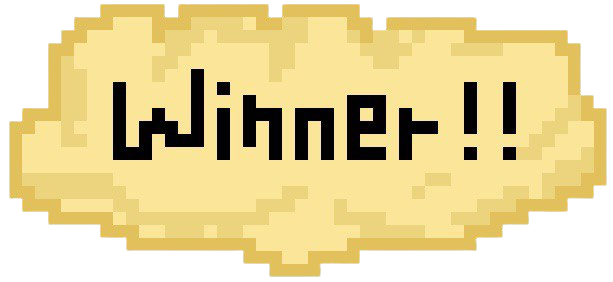
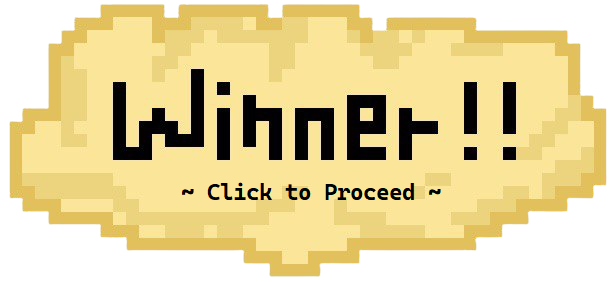
Added EOR State
- Added Win Condition and Change States to EOR
- Added feature for players to restart again

diff --git a/Club Winx's Game!/Src/WinLose.cpp b/Club Winx's Game!/Src/WinLose.cpp
@@ -4,6 +4,7 @@
 
 int Racing_WINNER{ 0 }, Racing_LOSER{ 0 };
 
+
 // ================================================================================================================ //
 // ======================================== FUNCTIONS RELATED FOR RACING ========================================== //
 // ================================================================================================================ //
@@ -98,6 +99,8 @@ int Racing_WINNER{ 0 }, Racing_LOSER{ 0 };
 
 void Racing_Win(bool win, int player)
 {
+	auto start_time = std::chrono::high_resolution_clock::now();
+	//f32 frame_before = 0.0f, time_before = 0.0f;
 	if (win == true) {
 		
 		switch (player)
@@ -109,18 +112,23 @@ void Racing_Win(bool win, int player)
 				// check if won
 				std::cout << "Won Player 1" << std::endl;
 				// bool to yes show pic near player head
-				winRacing.bgCoord = { player1.pCoord.x + 40.0f, player1.pCoord.y + 40.0f };
-				// next_state = END_OF_ROUND;
+				winRacing.bgCoord = { player1.pCoord.x + 60.0f, player1.pCoord.y + 60.0f };
+				// if press enter, goes to end of round
+				if (AEInputCheckTriggered(AEVK_LBUTTON)) {
+					next_state = END_OF_ROUND;
+				}
 				break;
 
 			case 2:
-				Racing_WINNER = PLAYERONE;
-				Racing_LOSER = PLAYERTWO;
+				Racing_WINNER = PLAYERTWO;
+				Racing_LOSER = PLAYERONE;
 
 				// check if won
 				std::cout << "Won Player 2" << std::endl; 
-				winRacing.bgCoord = { player2.pCoord.x + 40.0f, player2.pCoord.y + 40.0f };
-				//next_state = END_OF_ROUND;
+				winRacing.bgCoord = { player2.pCoord.x + 60.0f, player2.pCoord.y + 60.0f };
+				if (AEInputCheckTriggered(AEVK_LBUTTON)) {
+					next_state = END_OF_ROUND;
+				}
 				break;
 		}
 	}
@@ -134,33 +142,102 @@ void Racing_Win(bool win, int player)
 // ======================================== FUNCTIONS FOR STATE CHANGE ============================================ //
 // ================================================================================================================ //
 
+// Camera Movement Variables
+static f32			CamX{ 0.0f },
+CamY{ 0.0f };	// Camera's X & Y Positions
+
 void EOR_load()
 {
+	std::cout << "EOR:Load\n";
+
+	//AEGfxSetBackgroundColor(255.0f, 255.0f, 248.0f);
+	/*------------------------------------------------------------
+	SETTING BACKGROUND
+	------------------------------------------------------------*/
+	SquareMesh(&bgEOR.bgMesh, 0xFFFF00FF);
+	bgEOR.bgTex = AEGfxTextureLoad("Assets/EOR_BG.png");
+	bgEOR.length = AEGfxGetWinMaxX() - AEGfxGetWinMinX();
+	bgEOR.height = AEGfxGetWinMaxY() - AEGfxGetWinMinY();
+
 
 	return;
 }
 
 void EOR_init()
 {
+	std::cout << "EOR:Initialize\n";
+	
 	return;
 }
 
 void EOR_update()
 {
+	std::cout << "EOR:Update\n";
+
+	/*------------------------------------------------------------
+	// CHANGE STATE CONDITIONS
+	------------------------------------------------------------*/
+	// if press back, go replay
+	if (AEInputCheckCurr(AEVK_BACK)) {
+		next_state = RACING;
+	}
+	//if (AEInputCheckCurr(AEVK_2)) {
+	//	next_state = BOSS;
+	//}
+	if (AEInputCheckCurr(AEVK_Q)) {
+		next_state = QUIT;
+	}
+	//if (AEInputCheckCurr(AEVK_3)) {
+	//	next_state = PUZZLE;
+	//}
+
+	// if press enter/return, go to the next game
+	if (AEInputCheckTriggered(AEVK_RETURN)) {
+		next_state = BOSS;
+	}
+
+	/*------------------------------------------------------------
+	// MATRIX CALCULATIONS
+	------------------------------------------------------------*/
+	MatrixCalc(bgEOR.transform, bgEOR.length, bgEOR.height, 0.f, bgEOR.bgCoord);
+
+	
 	return;
 }
 
 void EOR_draw()
 {
+	std::cout << "EOR:Draw\n";
+
+	/*------------------------------------------------------------
+	DRAWING BACKGROUND
+	------------------------------------------------------------*/
+	AEGfxSetRenderMode(AE_GFX_RM_TEXTURE);
+	//AEGfxSetTextureMode(AE_GFX_TM_AVERAGE);
+	AEGfxSetTransform(bgEOR.transform.m);
+	AEGfxSetBlendMode(AE_GFX_BM_NONE);
+	AEGfxSetTintColor(1.0f, 1.0f, 1.0f, 1.0f);
+	AEGfxTextureSet(bgEOR.bgTex, 0.f, 0.f);
+	AEGfxMeshDraw(bgEOR.bgMesh, AE_GFX_MDM_TRIANGLES);
+
+	
 	return;
 }
 
 void EOR_free()
 {
+	std::cout << "EOR:Free\n";
+
 	return;
 }
 
 void EOR_unload()
 {
+	std::cout << "EOR:Unload\n";
+
+	// Unload Background
+	AEGfxMeshFree(bgEOR.bgMesh); // free BG Mesh
+	AEGfxTextureUnload(bgEOR.bgTex); // Unload Texture
+
 	return;
 }

diff --git a/Club Winx's Game!/Src/racing.cpp b/Club Winx's Game!/Src/racing.cpp
@@ -36,7 +36,6 @@ static bool			if_win{ false };
 
 
 
-
 /*------------------------------------------------------------
 FUNCTIONS
 ------------------------------------------------------------*/
@@ -140,15 +139,18 @@ void racing_init()
 	/*------------------------------------------------------------
 	// INIT - Camera Movement
 	------------------------------------------------------------*/
+	CamX = 0.0f, CamY = 0.0f;
 	maxHeight = H;
 	maxHeight_copy = H;
+	count = 1;
 
 	/*------------------------------------------------------------
 	// INIT - Racing Win Texture
 	------------------------------------------------------------*/
 	// winRacing.bgCoord = {player}
-	winRacing.length = 80.0f;
-	winRacing.height = 40.0f;
+	winRacing.length = 120.0f;
+	winRacing.height = 70.0f;
+	if_win = false;
 
 	return;
 }
@@ -169,7 +171,9 @@ void racing_update()
 	if (AEInputCheckCurr(AEVK_3)) {
 		next_state = PUZZLE;
 	}
-
+	if (AEInputCheckCurr(AEVK_BACK)) {
+		next_state = RESTART;
+	}
 
 
 	/*------------------------------------------------------------
@@ -194,7 +198,7 @@ void racing_update()
 			player1.pOnGround = true;
 
 			// if collision on last platform
-			if (i == 50)
+			if (i == (MAX_NUM_PLATFORMS -1))
 			{
 				Racing_Win(true, 1);
 				if_win = true;
@@ -216,7 +220,7 @@ void racing_update()
 			player2.pOnGround = true;
 
 			// if collision on last platform
-			if (i == 50)
+			if (i == (MAX_NUM_PLATFORMS - 1))
 			{
 				Racing_Win(true, 2);
 				if_win = true;
@@ -307,8 +311,9 @@ void racing_update()
 	MatrixCalc(splitscreen.transform, splitscreen.length, splitscreen.height, 0.f, splitscreen.lVect);
 
 	// for winning texture
-	if (if_win == true)
-	MatrixCalc(winRacing.transform, winRacing.length, winRacing.height, 0.f, winRacing.bgCoord);
+	if (if_win == true) {
+		MatrixCalc(winRacing.transform, winRacing.length, winRacing.height, 0.f, winRacing.bgCoord);
+	}
 
 
 	///*------------------------------------------------------------
@@ -316,16 +321,15 @@ void racing_update()
 	// if the player.y + size is over or at maxHeight, CamY will increase
 	//------------------------------------------------------------*/
 	//CamY = (player1.pCoord.y + player2.pCoord.y) / 2 + winHEIGHT / 4;
-
+	std::cout << "maxHeight: " << maxHeight << "\nPlayer 1: " << (player1.pCoord.y + player1.size) << std::endl;
 	if ((player1.pCoord.y + player1.size) >= maxHeight || (player2.pCoord.y + player2.size) >= maxHeight)
 	{
-		count++;
+
 		CamY+=maxHeight_copy; // Calculate the target camera position to gradually move towards
 
 		// maxHeight Incrementing
-		maxHeight = (maxHeight_copy * count);
+		maxHeight = (maxHeight_copy * ++count);
 	}
-
 
 }
 
@@ -427,7 +431,6 @@ void racing_unload()
 	// Unload Platform Meshes
 	------------------------------------------------------------*/
 	racing_map_unload();
-
 
 
 	/*------------------------------------------------------------

diff --git a/Club Winx's Game!/Src/RacingMap.cpp b/Club Winx's Game!/Src/RacingMap.cpp
@@ -98,7 +98,7 @@ void racing_map_init(f32 start, f32 end, int player)
 			platformA[i].platVect.y = platformA[i - 1].platVect.y + 100.0f;
 
 			// END POINT: if last platform, let x be the center of the platform area
-			if (i == 50)
+			if (i == (MAX_NUM_PLATFORMS - 1))
 			{
 				platformA[i].platVect.x = (min_limit + max_limit) / 2;
 				platformA[i].platVect.y = platformA[i - 1].platVect.y + 100.0f;
@@ -119,7 +119,7 @@ void racing_map_init(f32 start, f32 end, int player)
 			platformB[i].platVect.y = platformB[i - 1].platVect.y + 100.0f;
 
 			// END POINT: if last platform, let x be the center of the platform area, and init the length here
-			if (i == 50)
+			if (i == (MAX_NUM_PLATFORMS - 1))
 			{
 				platformB[i].platVect.x = (min_limit + max_limit) / 2;
 				platformB[i].platVect.y = platformA[i - 1].platVect.y + 100.0f;

diff --git a/Club Winx's Game!/Inc/general.h b/Club Winx's Game!/Inc/general.h
@@ -32,6 +32,7 @@
 #include <fstream>
 #include <string>
 #include <algorithm>
+#include <chrono>
 // ---------------------------------------------------------------------------
 
 
@@ -65,7 +66,7 @@ struct BG {
 	f32					height		{0.f}; // default height of BG (may need to change for racing)
 
 };
-extern BG bgRacing, bgPuzzle, bgBoss, winRacing;
+extern BG bgRacing, bgPuzzle, bgBoss, bgEOR, winRacing;
 
 
 
@@ -164,6 +165,8 @@ Platform
 
 // Global constant for array for platforms
 #define MAX_NUM_PLATFORMS 51 // END POINT: plus one for last platform
+//#define MAX_NUM_PLATFORMS 11 // testing
+
 
 // generic platform details such as length, height, colour
 struct Platform {

diff --git a/Club Winx's Game!/Src/general.cpp b/Club Winx's Game!/Src/general.cpp
@@ -28,7 +28,7 @@ double	 g_appTime;
 
 
 //declaring players & platforms
-BG			bgRacing, bgPuzzle, bgBoss;
+BG			bgRacing, bgPuzzle, bgBoss, bgEOR;
 BG			winRacing;
 
 Player		player1, player2;
